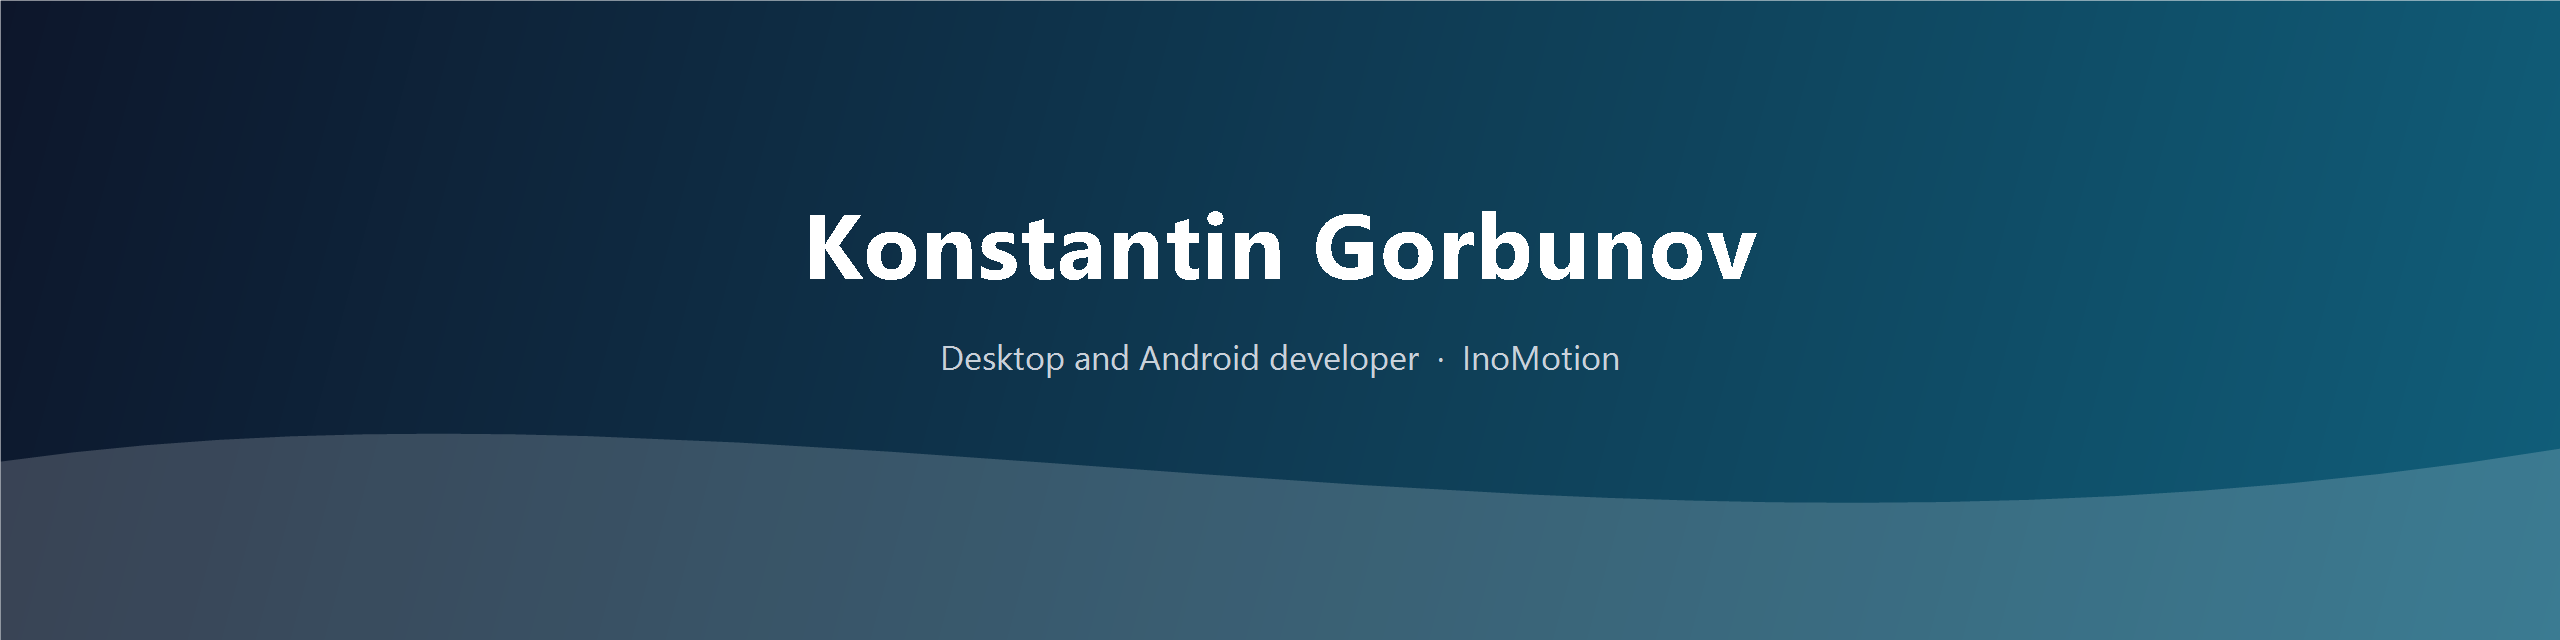
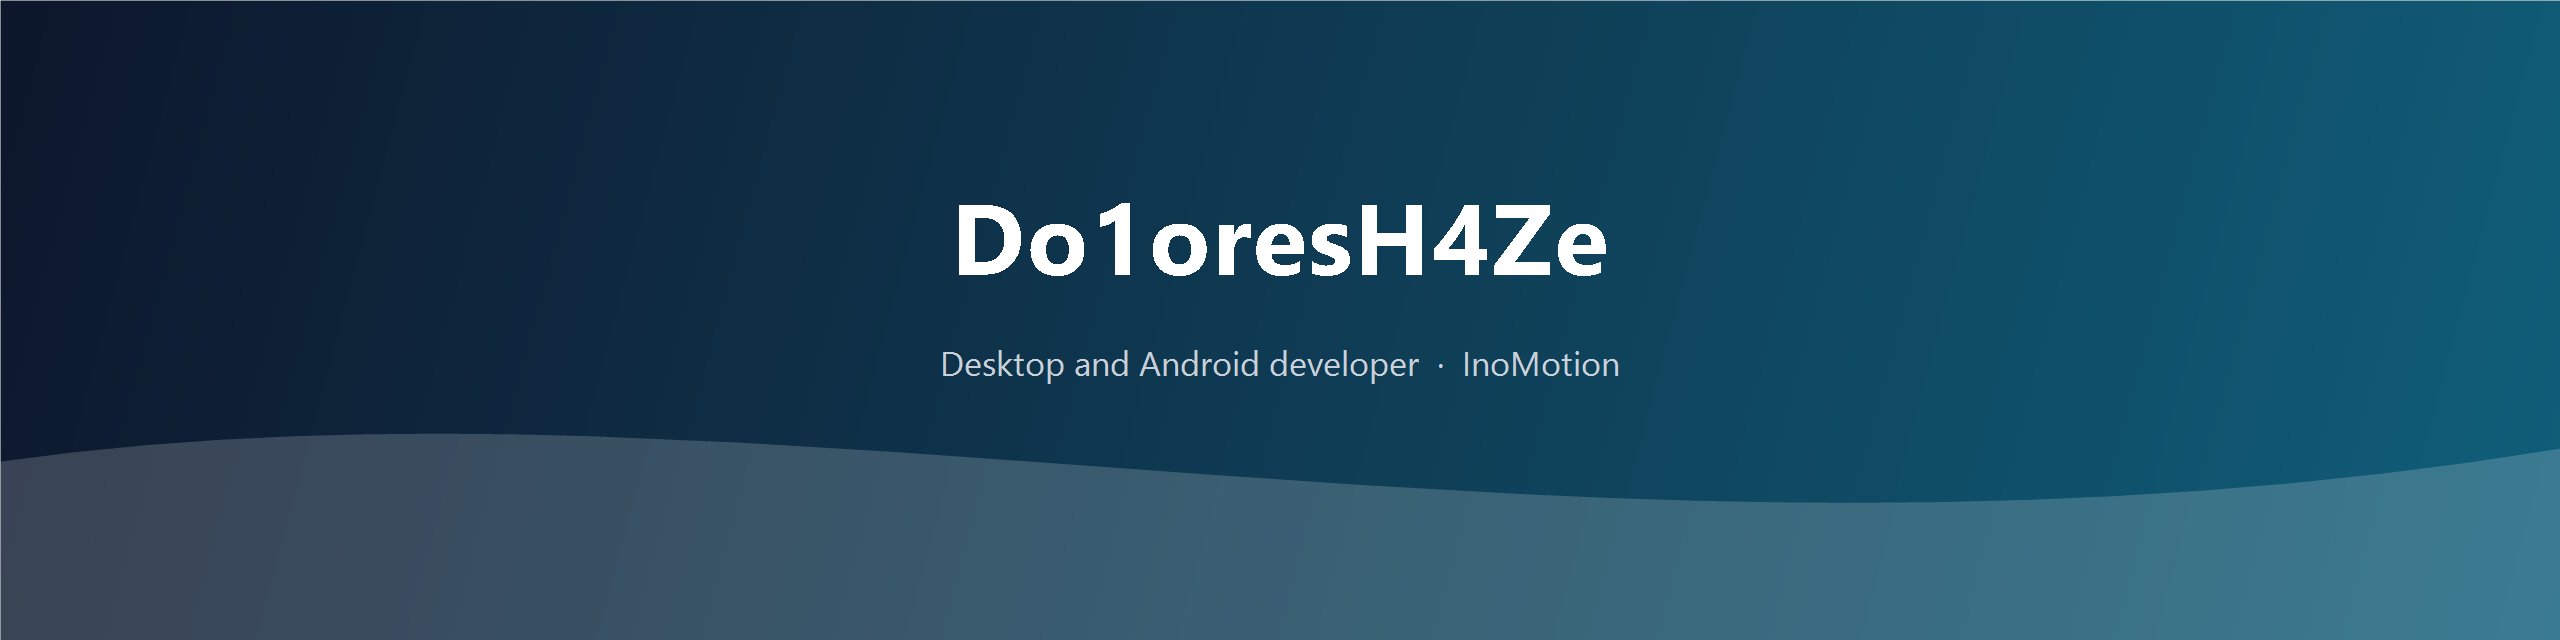
Имя на баннере — Do1oresH4Ze

Changed region(s): [[0.3125, 0.3125, 0.6875, 0.4375], [0.375, 0.5312, 0.625, 0.5938]]

diff --git a/README.md b/README.md
@@ -1,5 +1,5 @@
 <div align="center">
-  <img src="banner.png" alt="Konstantin Gorbunov — desktop and Android developer" width="100%">
+  <img src="banner.png" alt="Do1oresH4Ze — desktop and Android developer" width="100%">
 </div>
 
 <div align="center">
